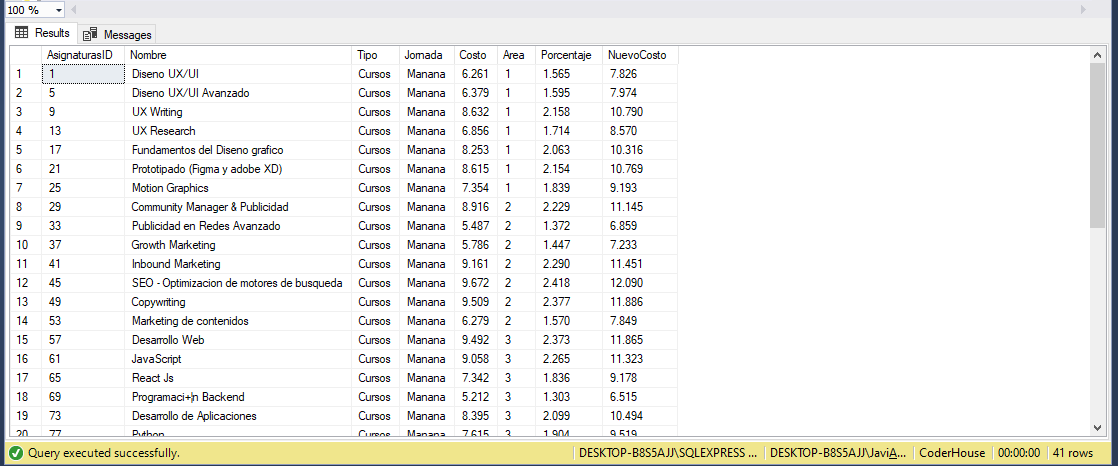
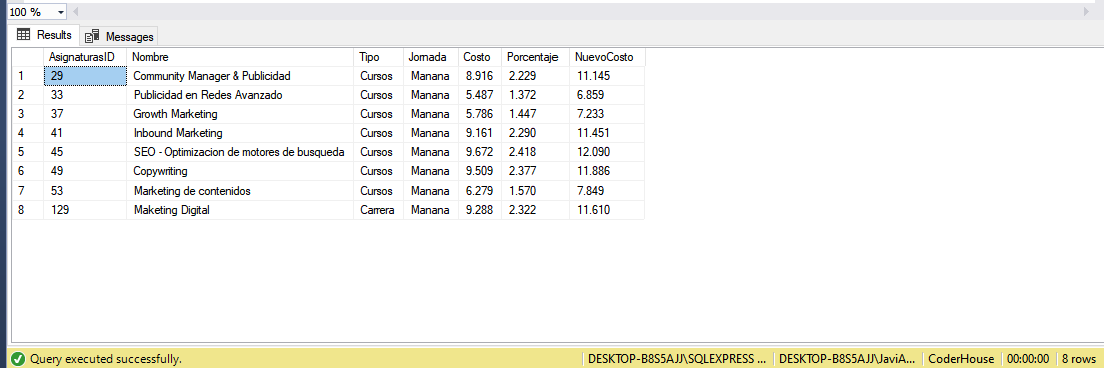
updated Students.md

Changed region(s): [[0.0, 0.0, 1.0, 1.0]]

diff --git a/Coderhouse_students/Students.md b/Coderhouse_students/Students.md
@@ -30,7 +30,7 @@ SELECT Nombre, Documento, Telefono, Profesion, [Fecha de Nacimiento]
 FROM Estudiantes
 WHERE (Profesion = (
 					SELECT ProfesionesID FROM Profesiones 
-					WHERE (Profesiones = 'Agronomo Agronoma') AND
+					WHERE (Profesiones like '%Agrono%') AND
 		[Fecha de Nacimiento] BETWEEN '1970-01-01' AND '2000-01-01'
 					)
 		)
@@ -41,7 +41,7 @@ WHERE (Profesion = (
 ### 3. List the teachers who joined in 2021 and concatenate the first and last name fields with a hyphen (-). Example: Elba-Jimenez. Rename the new column  Nombres_Apellidos. The results in the new column must be in uppercase.
 ```sql
 SELECT UPPER (CONCAT_WS ('-', Nombre, Apellido)) AS Nombres_Apellidos 
-FROM Staff WHERE [Fecha Ingreso] BETWEEN '2021-01-01' AND '2021-12-31'
+FROM Staff WHERE YEAR[Fecha Ingreso] = 2021
 ```
 ![Alt text](image-3.png)
 
@@ -78,7 +78,7 @@ ORDER BY AVG(Costo) Desc
 ```sql
 SELECT DATEDIFF(year, [Fecha de Nacimiento], GETDATE()) AS Edad 
 FROM Estudiantes 
-WHERE DATEDIFF(year, [Fecha de Nacimiento], GETDATE()) >= 18
+WHERE DATEDIFF(year, [Fecha de Nacimiento], GETDATE()) > 18
 ORDER BY DATEDIFF(year, [Fecha de Nacimiento], GETDATE()) 
 ```
 ![Alt text](image-6.png)
@@ -92,8 +92,11 @@ WHERE DocentesID> 100 AND (RIGHT(Correo, 4)) = '.edu'
 
 ### 8. It is required to know the document, address, zip code and name of the first students who registered on the platform
 ```sql
-SELECT TOP 5 Documento, Domicilio, [Codigo Postal], Nombre
+SELECT Documento, Domicilio, [Codigo Postal], Nombre
 FROM Estudiantes
+WHERE [Fecha Ingreso] = (
+	SELECT MIN ([Fecha Ingreso])
+	FROM Estudiantes)
 ORDER BY [Fecha Ingreso]
 ```
 ![Alt text](image-8.png)
@@ -113,10 +116,13 @@ SELECT AsignaturasID,
 		Tipo, 
 		Jornada, 
 		Costo, 
-		Area, 
 		CAST((Costo*0.25) AS DECIMAL (10,3)) AS Porcentaje,
 		CAST((Costo * 1.25) AS DECIMAL(10,3)) AS NuevoCosto 
-FROM Asignaturas WHERE Jornada = 'Manana'
+FROM Asignaturas 
+WHERE Jornada = 'Manana' AND Area = (
+							SELECT AreaID
+							FROM Area
+							WHERE Nombre LIKE '%Market%' )
 ```
 ![Alt text](image-10.png)
 
@@ -139,17 +145,17 @@ SELECT Encargado_ID, E.Nombre, E.Apellido, COUNT(DocentesID) AS Cant_Docentes
 FROM Encargado AS E LEFT JOIN Staff AS S
 ON Encargado_ID = Encargado
 GROUP BY Encargado_ID, E.Nombre, E.Apellido --Columns with no aggregation must be group by
-HAVING COUNT(DocentesID) = 0 -- The WHERE clause is for existing fields and the HAVING clause is applied to the rows in the result set. 
+HAVING COUNT(DocentesID) > 0 -- The WHERE clause is for existing fields and the HAVING clause is applied to the rows in the result set. 
 ```
 ![Alt text](image-12.png)
 
 ### 13. List all the data for subjects that do not have an assigned teacher. The query model must start from the teachers table. 
 ```sql
-SELECT AsignaturasID, A.Nombre, A.Tipo, A.Jornada, A.Costo
+SELECT A.Nombre, A.Tipo, A.Jornada, A.Costo, count(s.DocentesID) as Cant_Docentes
 FROM Staff AS S RIGHT JOIN Asignaturas AS A  
 ON Asignatura = AsignaturasID
-GROUP BY AsignaturasID, A.Nombre, A.Tipo, A.Jornada, A.Costo
-HAVING COUNT (DocentesID) = 0
+GROUP BY A.Nombre, A.Tipo, A.Jornada, A.Costo
+HAVING COUNT (s.DocentesID) = 0;
 ```
 ![Alt text](image-13.png)
 
@@ -248,7 +254,11 @@ Identify: Area name, if the subject is a career or course, shift, number of stud
 Order the report from highest to lowest by total cost amount, take into account the teachers who do not have assigned subjects or students.
 
 ```sql
-SELECT Ar.Nombre AS Area, Asig.Tipo, Asig.Jornada, COUNT(E.EstudiantesID) AS Cant_estudiantes, SUM(Asig.Costo) AS Costo_total
+SELECT Ar.Nombre AS Area, 
+Asig.Tipo, 
+Asig.Jornada, 
+COUNT(E.EstudiantesID) AS Cant_estudiantes, 
+SUM(Asig.Costo) AS Costo_total
 FROM 
 Estudiantes As E
 RIGHT JOIN Staff ON Docente = DocentesID
